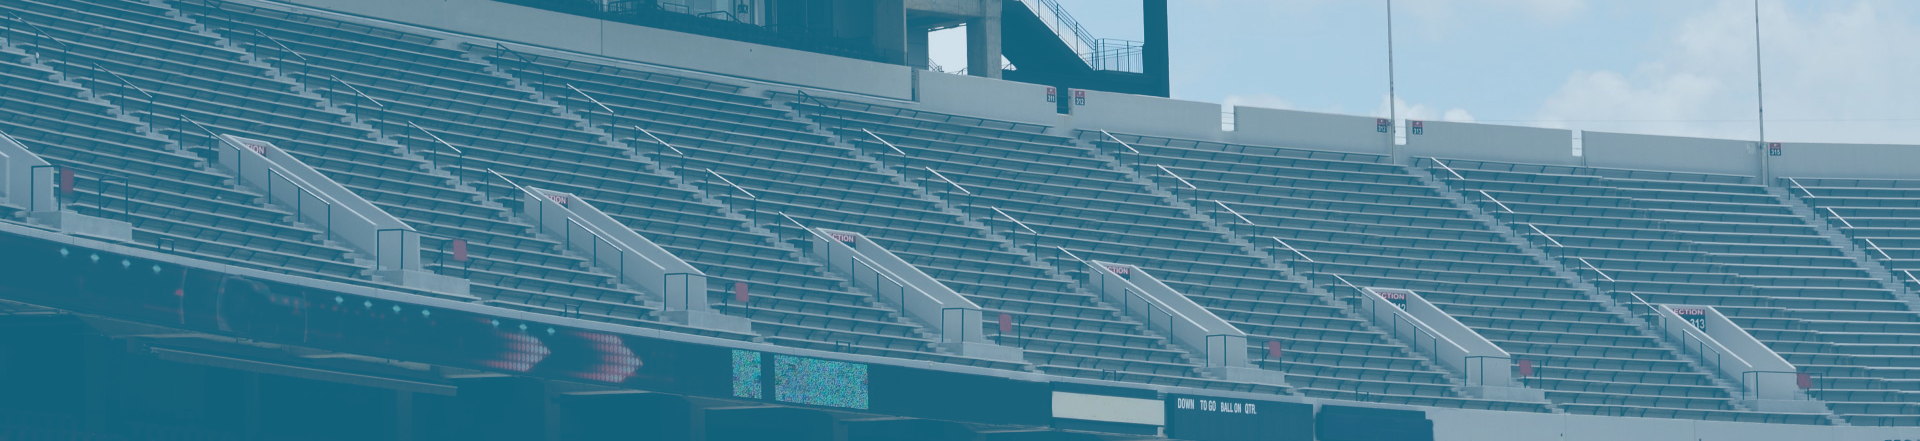
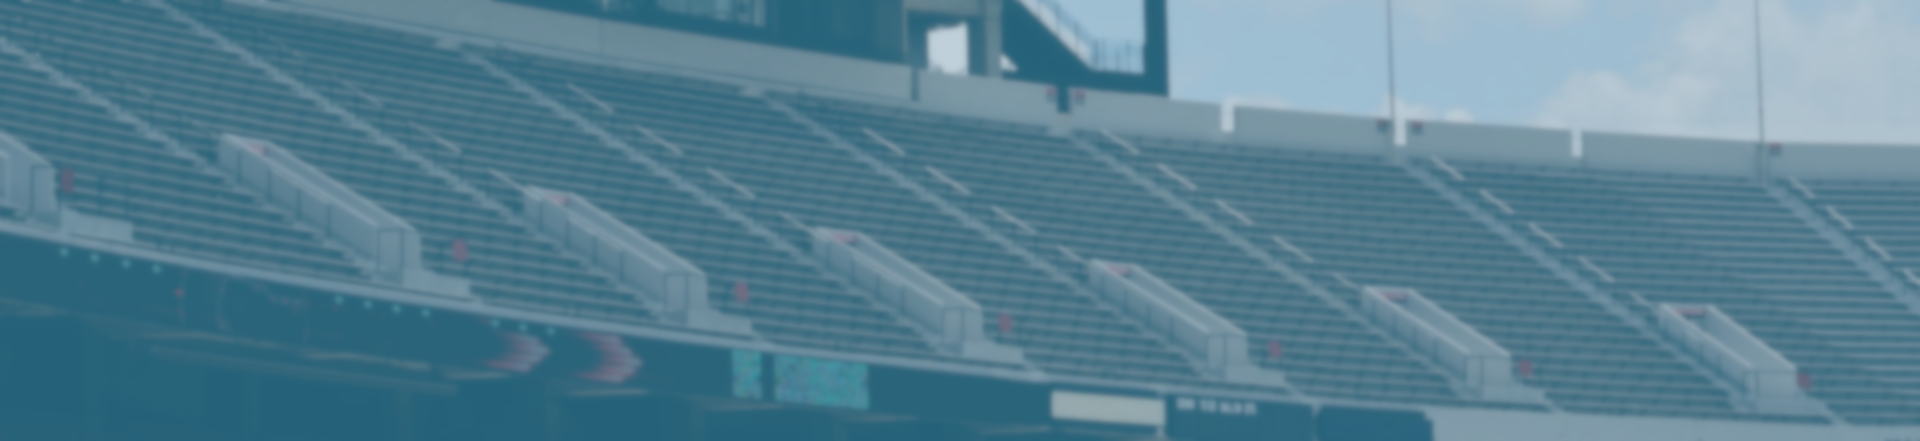
visibility edits to index page
as per professor's feedback. Hopefully this is good?

diff --git a/css/styles.css b/css/styles.css
@@ -28,8 +28,15 @@ div#container
     margin: 0.2rem;
 }
 
+header {
+    font-family: Impact, Haettenschweiler, 'Arial Narrow Bold', sans-serif;
+}
+
 header h1 {
     font-size: 3rem;
+    background: -webkit-linear-gradient(darkred, red);
+    -webkit-background-clip: text;
+    -webkit-text-fill-color: transparent;
     -webkit-text-stroke: 0.1rem black;
     background-color: rgba(36, 145, 203, 0.5);
 }
@@ -244,4 +251,20 @@ h2 {
     color: white;
     padding: 0.5rem;
     border: 0.1rem solid white;
+}
+
+footer a:link{
+    color: red;
+}
+
+footer a:visited{
+    color: white;
+}
+
+footer a:hover{
+    color: darkblue;
+}
+
+footer a:active{
+    color: aqua;    
 }
